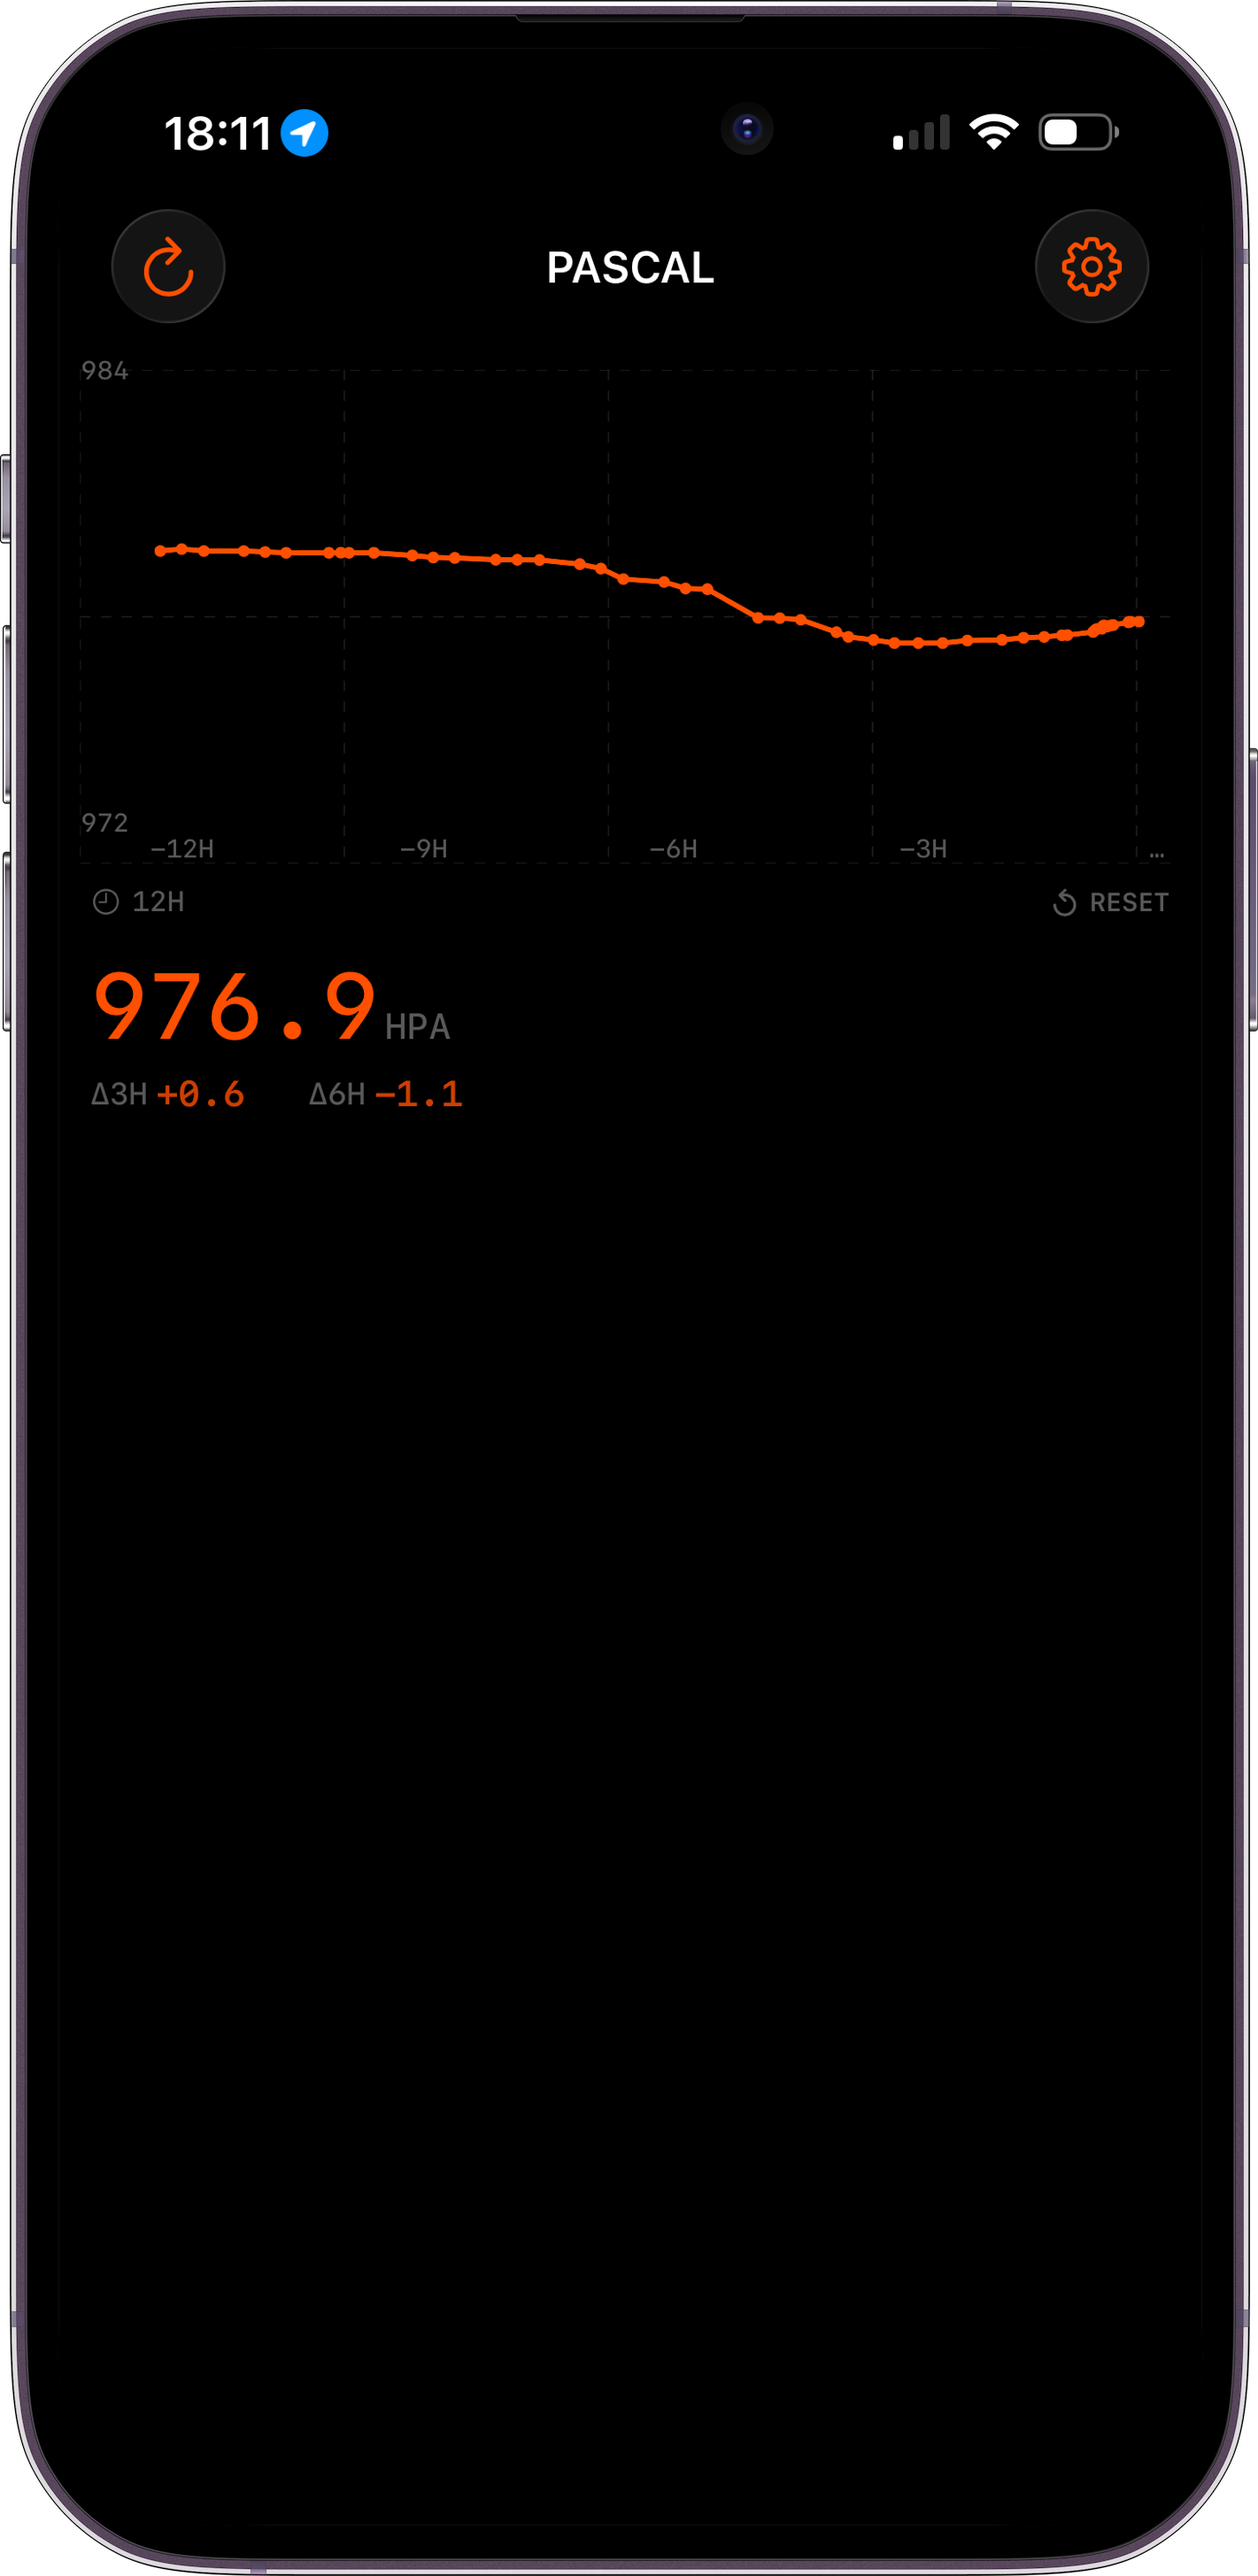
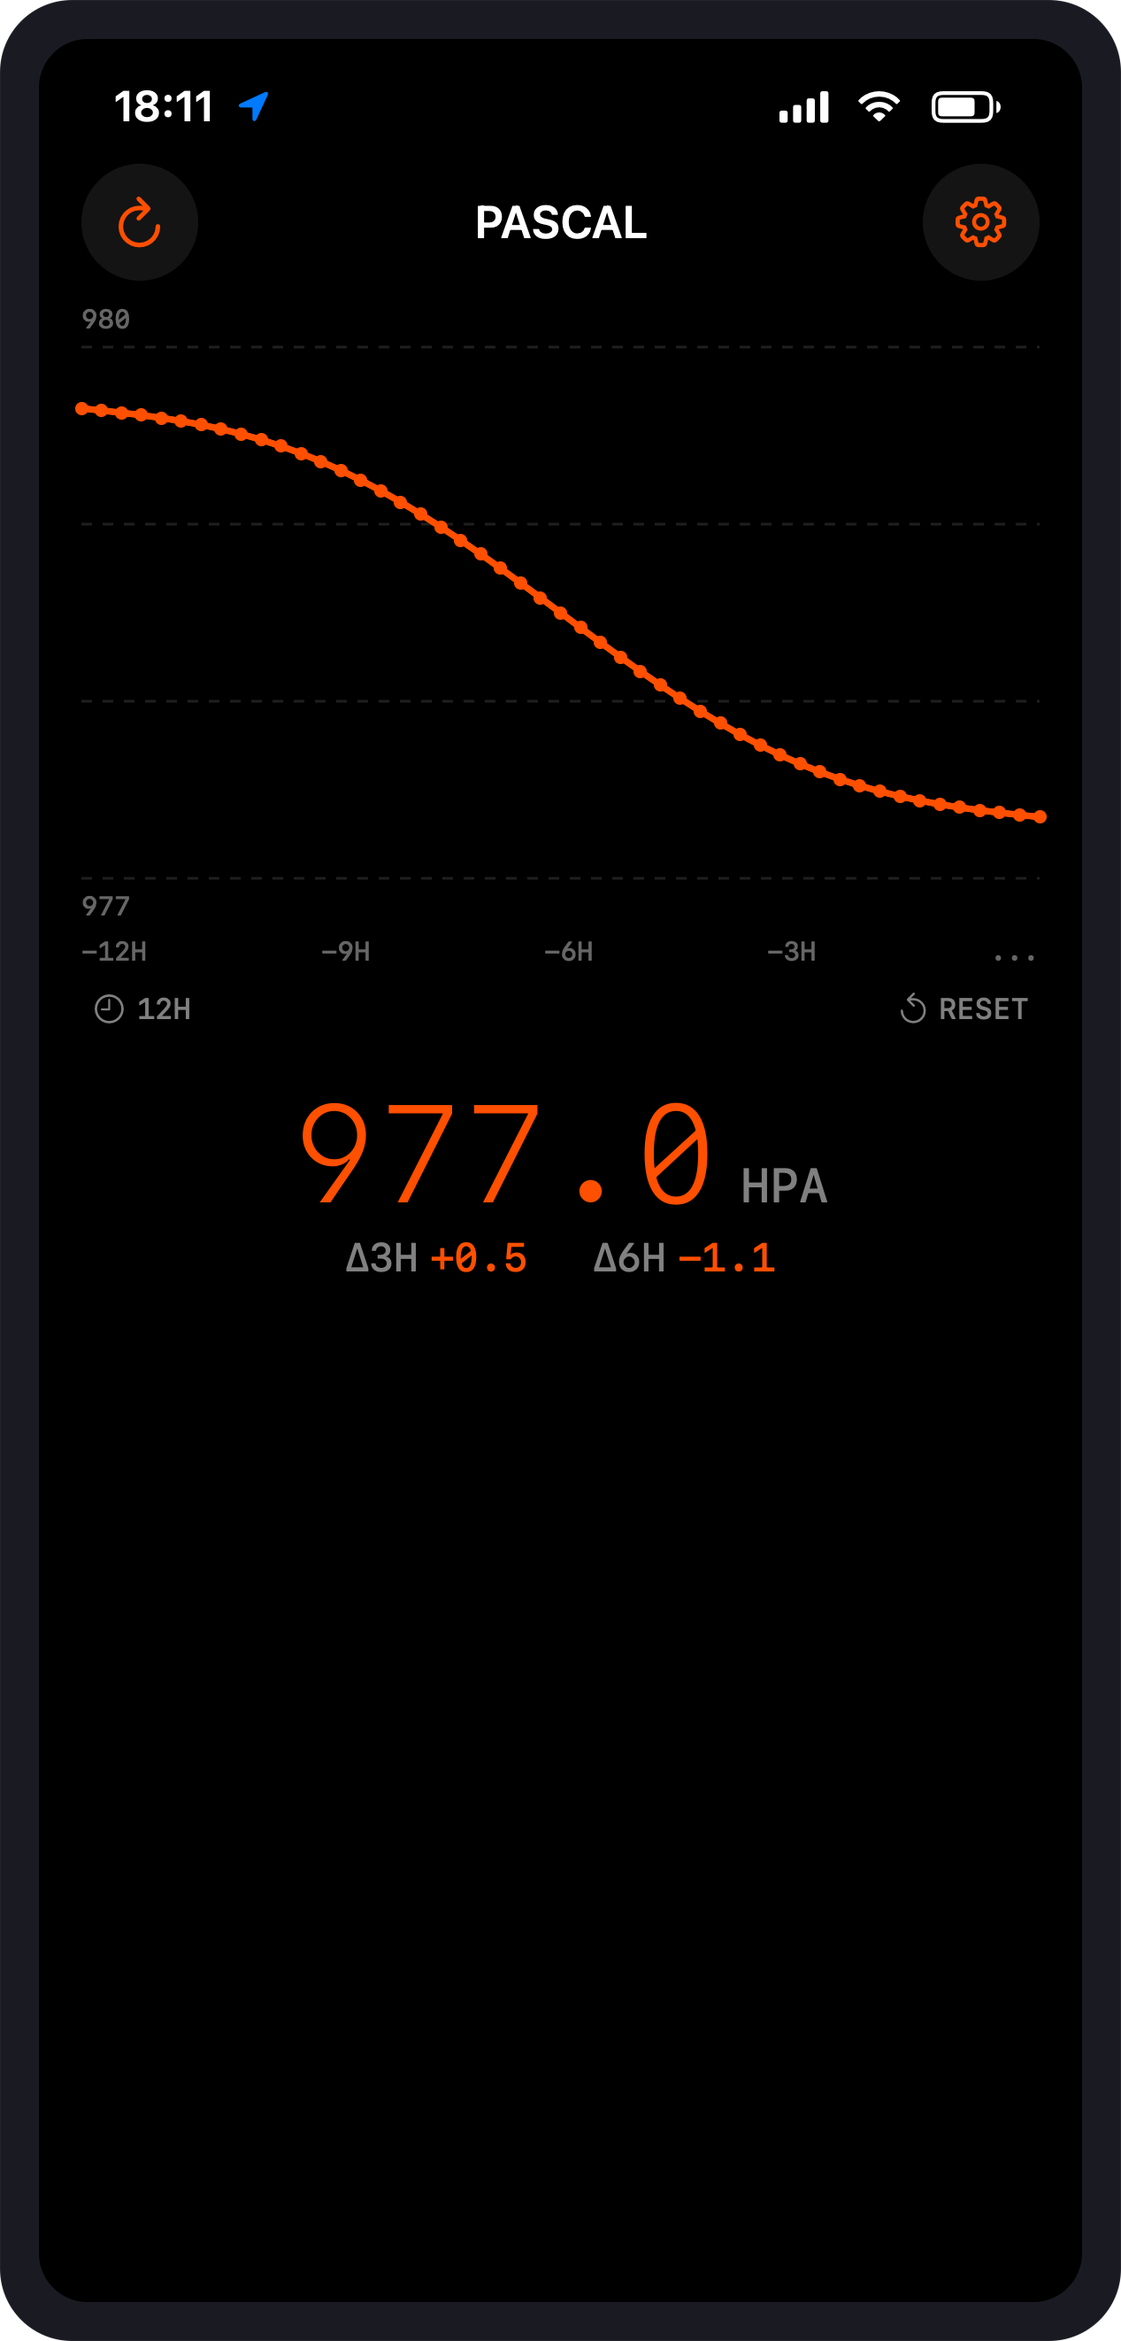
new screeshot

diff --git a/pascal/index.html b/pascal/index.html
@@ -32,8 +32,8 @@ description: Track atmospheric pressure to monitor weather-related migraine trig
             <span class="screenshot-label">HOME WIDGET</span>
         </div>
         <div class="screenshot-item">
-            <img src="iphone-onboarding.png" alt="Pascal onboarding explaining permissions" class="iphone">
-            <span class="screenshot-label">SIMPLE SETUP</span>
+            <img src="watch-main.png" alt="Pascal on Apple Watch" class="watch">
+            <span class="screenshot-label">APPLE WATCH</span>
         </div>
     </div>
 </div>

diff --git a/pascal/pascal.css b/pascal/pascal.css
@@ -178,6 +178,10 @@ body.pascal nav {
     max-height: 420px;
 }
 
+.screenshot-item .watch {
+    max-height: 320px;
+}
+
 .screenshot-label {
     font-size: 10px;
     letter-spacing: 2px;
